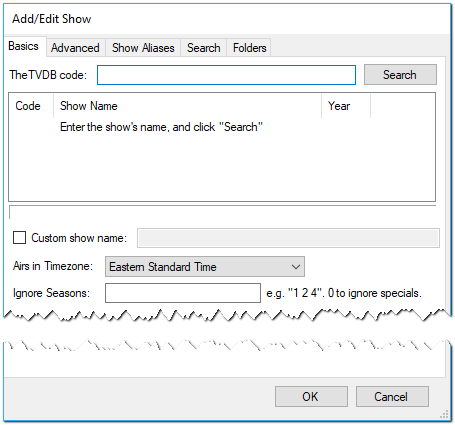
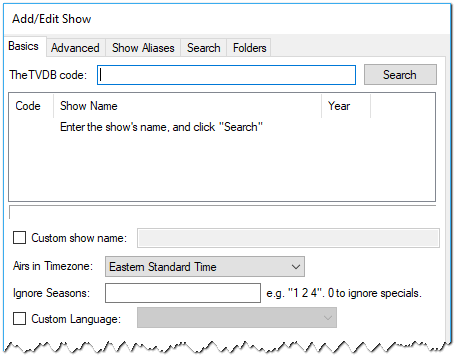
update add-edit

Changed region(s): [[0.0, 0.5166, 1.0, 1.0], [0.0, 0.0, 0.9846, 0.3646], [0.0, 0.4558, 0.9538, 0.5166]]

diff --git a/_manual/user/add-edit-basics.md b/_manual/user/add-edit-basics.md
@@ -32,6 +32,10 @@ If you wish to ignore specific seasons of a show enter the season numbers (space
 
 *Default:* _**Empty Field**_ 
 
+New in Version 2.6 the "Custom Language:" tick box and drop-down allows you to set a "non-default" language for the show in question. To activate it simply tick the box and select the preferred language for the show from the drop-down.
+
+*Default:* _**Un-ticked**_
+
 To complete the minimum setup for adding the show to the library we now need to go to the ["Folders" Tab](#the-folders-tab).
 
 {:.toplink}
